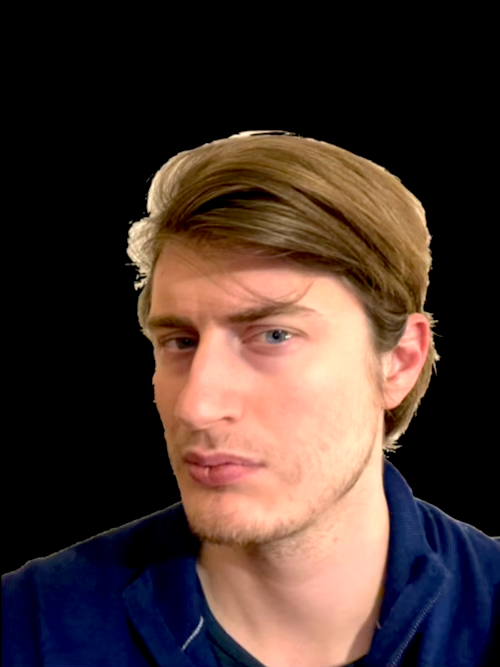
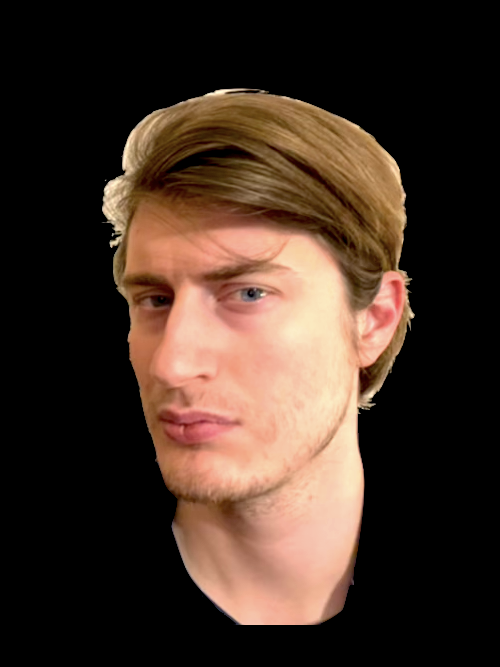
Improvements

diff --git a/src/shaders/vertex.ts b/src/shaders/vertex.ts
@@ -18,8 +18,7 @@ export const vertexShader = /* glsl */ `
     attribute vec3 pColor; 
 
     varying vec2 particleuv; 
-    varying vec2 vUv; 
-    varying float vTime; 
+
     varying float vWave;
     varying float vWaveEdge; 
 
@@ -35,7 +34,7 @@ export const vertexShader = /* glsl */ `
 
         //_ particle uv coords
         particleuv = offset.xy / uTextureSize;
-        vUv = uv; 
+ 
 
         //_ get the lighter image areas
         vec4 col = texture2D(uTexture, particleuv);
@@ -56,8 +55,8 @@ export const vertexShader = /* glsl */ `
         displaced.z += waveEdge * 10.0;
 
         //_ tails 
-        float rightTails = smoothstep(0.82, 1.0, particleuv.x); 
-        float leftTails = 1.0 - smoothstep(0.0, 0.3, particleuv.x);
+        float rightTails = smoothstep(0.75, 1.0, particleuv.x); 
+        float leftTails = 1.0 - smoothstep(0.0, 0.25, particleuv.x);
 
         displaced.x += rightTails * 200.0 * (uMouse.x + 1.0);
         displaced.x += leftTails * 200.0 * (uMouse.x - 1.0); 
@@ -73,7 +72,6 @@ export const vertexShader = /* glsl */ `
         gl_Position = projectionMatrix * mvPosition;
 
         //_ pass the varyings
-        vTime = uTime; 
         vWave = wave; 
         vWaveEdge = waveEdge; 
     }

diff --git a/src/shaders/fragment.ts b/src/shaders/fragment.ts
@@ -5,7 +5,6 @@ export const fragmentShader = /* glsl */ `
     precision highp float;
     varying vec2 particleuv; 
     varying vec2 vUv; 
-    varying float vTime; 
     varying float vWave; 
     varying float vWaveEdge; 
 
@@ -22,8 +21,8 @@ export const fragmentShader = /* glsl */ `
         if(strength < 0.2) discard;
 
         //_ strips
-        float colorStripe = mod(particleuv.y * 8.0, 1.0);
-        colorStripe = 0.5 + strength * colorStripe * 0.5 + (vWave * 0.2);
+        float colorStripe = mod(particleuv.x * 8.0, 1.0);
+        colorStripe = 0.4 + strength * colorStripe * 0.5 + (vWave * 0.2);
         
         //_ color
         vec3 color = hsl2rgb(colorStripe, strength, strength + vWaveEdge);

diff --git a/src/Scene.tsx b/src/Scene.tsx
@@ -1,13 +1,11 @@
 import { Canvas } from "@react-three/fiber"
 import Panel from "./Panel"
 import { Suspense } from "react"
-import { OrbitControls } from "@react-three/drei"
 
 const Scene = () => (
-  <Canvas shadows camera={{ position: [-120, 100, 400] }}>
+  <Canvas shadows camera={{ position: [-100, 80, 450] }}>
     <ambientLight intensity={0.1} />
     <Suspense fallback={null}>
-      <OrbitControls />
       <Panel />
     </Suspense>
   </Canvas>

diff --git a/src/Material.tsx b/src/Material.tsx
@@ -16,7 +16,7 @@ const Material = ({ texture }: any) => {
       uTextureSize: { value: new THREE.Vector2(image.width, image.height) },
       uRandom: { value: 10.0 },
       uDepth: { value: 2.0 },
-      uMouse: { value: new THREE.Vector2(0.2, 0.5) },
+      uMouse: { value: new THREE.Vector2(1.0, 1.0) },
     }),
     [texture, image]
   )
